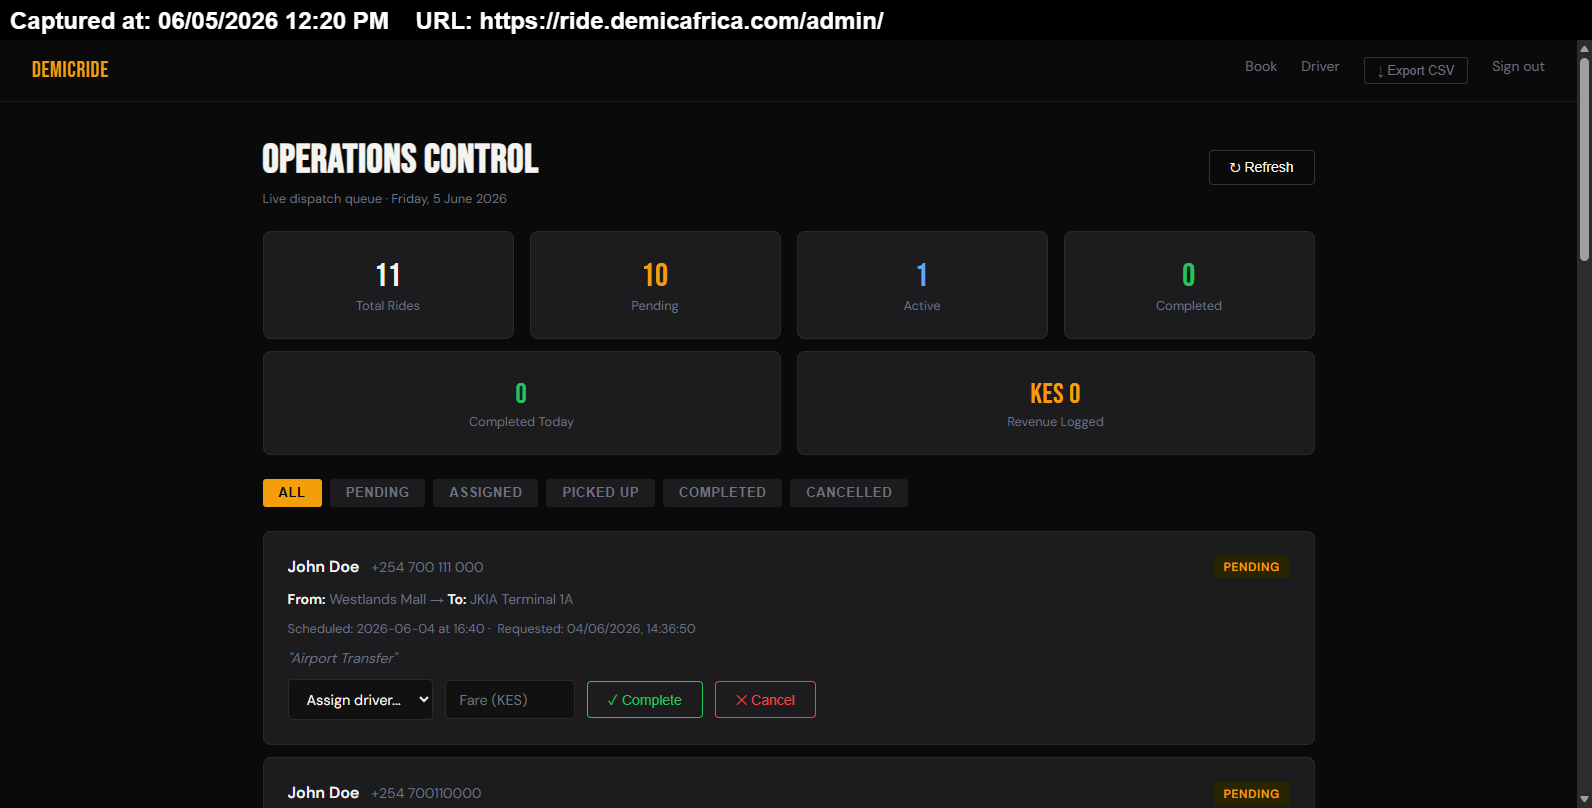
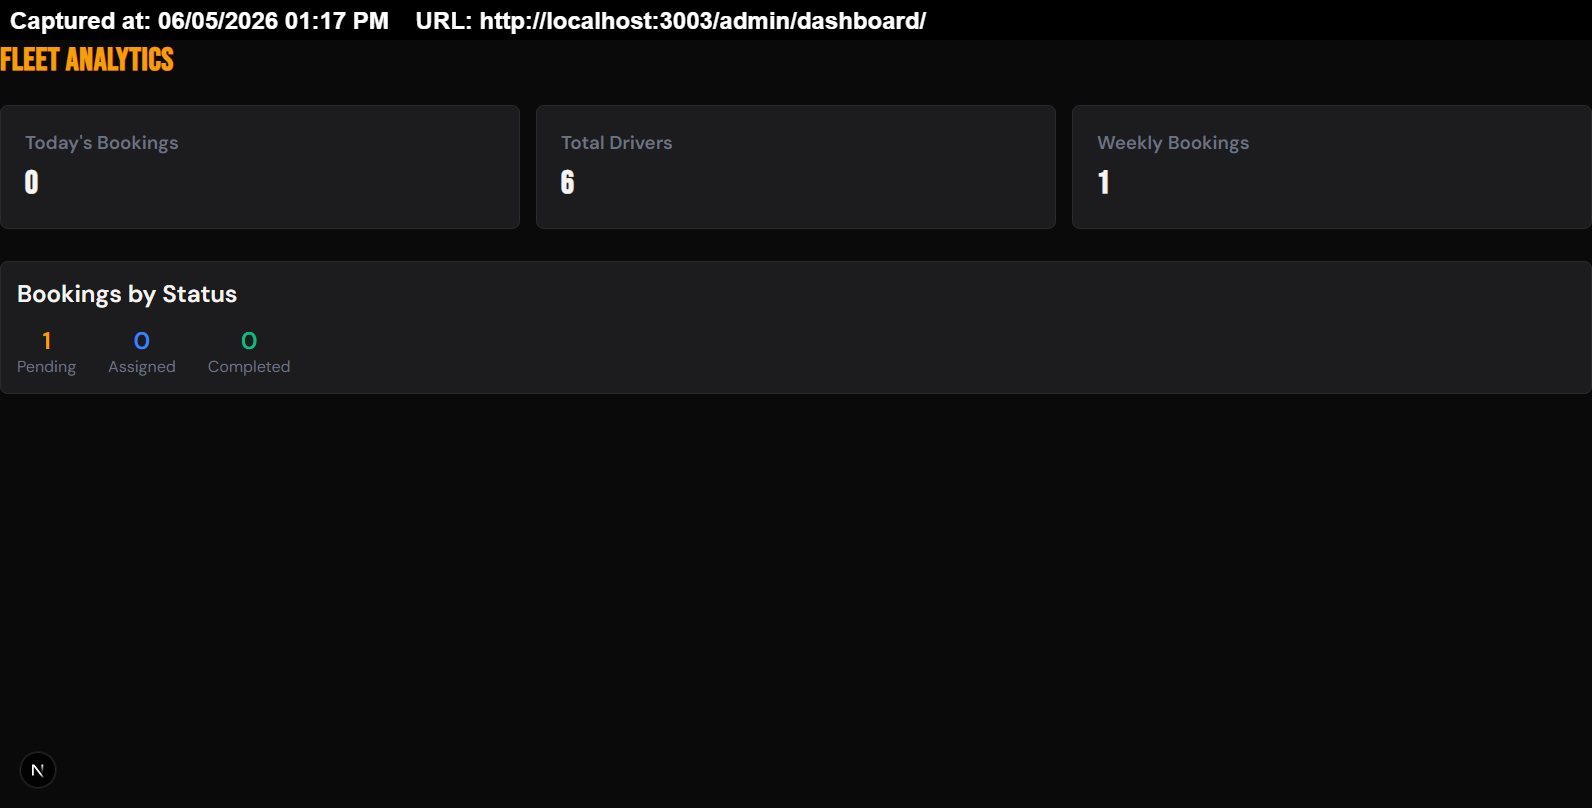
feat: add real analytics dashboard with Copilot
- Shows Total Drivers: 6 (matches dispatch logic)
- Shows Weekly Bookings: 1
- Shows Bookings by Status
- Working at /admin/dashboard

diff --git a/components/AdminAnalyticsPanel.tsx b/components/AdminAnalyticsPanel.tsx
@@ -1,0 +1,111 @@
+'use client'
+
+import { useEffect, useState } from 'react'
+import { supabase } from '@/lib/supabase'
+
+interface DashboardStats {
+  todayBookings: number
+  pendingBookings: number
+  assignedBookings: number
+  completedBookings: number
+  totalDrivers: number
+  weeklyBookings: number
+}
+
+export default function AdminAnalyticsPanel() {
+  const [stats, setStats] = useState<DashboardStats | null>(null)
+  const [loading, setLoading] = useState(true)
+
+  useEffect(() => {
+    async function fetchStats() {
+      const today = new Date().toISOString().split('T')[0]
+      const weekAgo = new Date()
+      weekAgo.setDate(weekAgo.getDate() - 7)
+
+      // Today's bookings
+      const { count: todayBookings } = await supabase
+        .from('bookings')
+        .select('*', { count: 'exact', head: true })
+        .gte('created_at', today)
+
+      // Bookings by status
+      const { data: statusData } = await supabase
+        .from('bookings')
+        .select('status')
+
+      const pending = statusData?.filter(b => b.status === 'pending').length || 0
+      const assigned = statusData?.filter(b => b.status === 'assigned').length || 0
+      const completed = statusData?.filter(b => b.status === 'completed').length || 0
+
+      // Total drivers (matches dispatch logic which fetches all drivers)
+      const { count: totalDrivers } = await supabase
+        .from('drivers')
+        .select('*', { count: 'exact', head: true })
+
+      // Weekly bookings
+      const { count: weeklyBookings } = await supabase
+        .from('bookings')
+        .select('*', { count: 'exact', head: true })
+        .gte('created_at', weekAgo.toISOString())
+
+      setStats({
+        todayBookings: todayBookings || 0,
+        pendingBookings: pending,
+        assignedBookings: assigned,
+        completedBookings: completed,
+        totalDrivers: totalDrivers || 0,
+        weeklyBookings: weeklyBookings || 0
+      })
+      setLoading(false)
+    }
+
+    fetchStats()
+  }, [])
+
+  if (loading || !stats) {
+    return <div className="p-6">Loading dashboard...</div>
+  }
+
+  return (
+    <div className="p-6">
+      <h1 className="display" style={{ fontSize: '2rem', marginBottom: '1.5rem', color: 'var(--amber)' }}>
+        Fleet Analytics
+      </h1>
+
+      <div className="grid" style={{ display: 'grid', gridTemplateColumns: 'repeat(auto-fit, minmax(250px, 1fr))', gap: '1rem', marginBottom: '2rem' }}>
+        <div className="card">
+          <h3 style={{ color: 'var(--muted)', marginBottom: '0.5rem' }}>Today's Bookings</h3>
+          <p className="display" style={{ fontSize: '2rem', fontWeight: 'bold' }}>{stats.todayBookings}</p>
+        </div>
+
+        <div className="card">
+          <h3 style={{ color: 'var(--muted)', marginBottom: '0.5rem' }}>Total Drivers</h3>
+          <p className="display" style={{ fontSize: '2rem', fontWeight: 'bold' }}>{stats.totalDrivers}</p>
+        </div>
+
+        <div className="card">
+          <h3 style={{ color: 'var(--muted)', marginBottom: '0.5rem' }}>Weekly Bookings</h3>
+          <p className="display" style={{ fontSize: '2rem', fontWeight: 'bold' }}>{stats.weeklyBookings}</p>
+        </div>
+      </div>
+
+      <div className="card" style={{ padding: '1rem' }}>
+        <h2 style={{ marginBottom: '1rem' }}>Bookings by Status</h2>
+        <div style={{ display: 'flex', gap: '2rem', flexWrap: 'wrap' }}>
+          <div style={{ textAlign: 'center' }}>
+            <p style={{ fontSize: '1.5rem', fontWeight: 'bold', color: 'var(--amber)' }}>{stats.pendingBookings}</p>
+            <p style={{ color: 'var(--muted)' }}>Pending</p>
+          </div>
+          <div style={{ textAlign: 'center' }}>
+            <p style={{ fontSize: '1.5rem', fontWeight: 'bold', color: '#3b82f6' }}>{stats.assignedBookings}</p>
+            <p style={{ color: 'var(--muted)' }}>Assigned</p>
+          </div>
+          <div style={{ textAlign: 'center' }}>
+            <p style={{ fontSize: '1.5rem', fontWeight: 'bold', color: '#10b981' }}>{stats.completedBookings}</p>
+            <p style={{ color: 'var(--muted)' }}>Completed</p>
+          </div>
+        </div>
+      </div>
+    </div>
+  )
+}

diff --git a/app/admin/dashboard/page.tsx b/app/admin/dashboard/page.tsx
@@ -1,0 +1,5 @@
+import AdminAnalyticsPanel from '@/components/AdminAnalyticsPanel'
+
+export default function DashboardPage() {
+  return <AdminAnalyticsPanel />
+}
